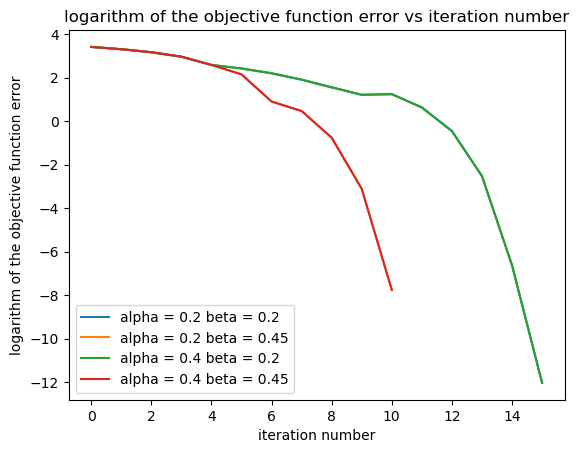
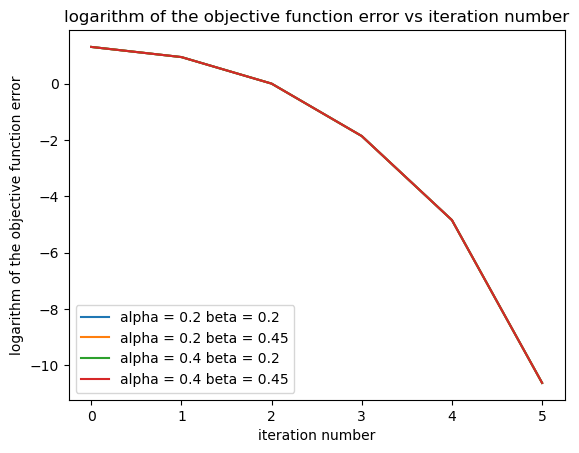
working on 9.31

diff --git a/part_1/hw7/ex_9_31_a.py b/part_1/hw7/ex_9_31_a.py
@@ -25,9 +25,6 @@ x_start = np.zeros([n, 1])
 
 x = x_start
 
-
-iter_num = 0
-
 max_iters = 1000
 
 max_line_search_iters = 1000
@@ -39,17 +36,26 @@ beta = 0.4
 print('x_start = ', x_start)
 print('x_start.shape = ', x_start.shape)
 
+N = 3
 
-# t = h.backtrack(x, a, h.gradf(x, a), alpha, beta)
-# print('t after backtrack = ', t)
+iter_num = 0
 
 # the Newton's method implementation
+
 while True:
     
     print('iteration number ', iter_num)
+    
     grad = h.gradf(x, a) #  gradient of f
-    hess = h.hessf(x, a) #  hessian of f
-    ihess = np.linalg. inv(hess) #  inverse hessian of f
+    
+    """
+    We need to evaluate and factor the Hessian once every N steps; for the
+    other steps, we compute the search direction using back and forward substitution
+    """        
+    if iter_num // N == 0:
+        hess = h.hessf(x, a) #  hessian of f
+        ihess = np.linalg. inv(hess) #  inverse hessian of f
+
     dx = - ihess @ grad #  Newton step
     lam_sq = grad.T @ (ihess @ grad) # Newton decrement
 
@@ -76,7 +82,6 @@ while True:
     if iter_num >= max_iters:
         print("Newton's method: max_iters number exeeded")
         break
-        
     
 def newton_method(alpha, beta):
     
@@ -89,22 +94,28 @@ def newton_method(alpha, beta):
         
         print('iteration number ', iter_num)
         obj_func_arr.append(f(x, a))
+        
         grad = h.gradf(x, a) #  gradient of f
-        hess = h.hessf(x, a) #  hessian of f
-        ihess = np.linalg. inv(hess) #  inverse hessian of f
+        
+        """
+        We need to evaluate and factor the Hessian once every N steps; for the
+        other steps, we compute the search direction using back and forward substitution
+        """        
+        if iter_num // N == 0:
+            hess = h.hessf(x, a) #  hessian of f
+            ihess = np.linalg. inv(hess) #  inverse hessian of f
+    
         dx = - ihess @ grad #  Newton step
         lam_sq = grad.T @ (ihess @ grad) # Newton decrement
     
         print('lam_sq = %e' % lam_sq)
-        #  if lam_sq / 2 <= nu_min:
         if np.sqrt(lam_sq / 2) <= nu_min:
             print("Newton's method: tolerance achieved, exiting...")
             print('iteration number ', iter_num)
             #  print('a = ', a)
-            opt_val = f(x, a)
-            print('optimal value = %e' % opt_val)
+            print('optimal value = %e' % f(x, a))
             print('optimal x = ', x)
-            return np.array(obj_func_arr) - opt_val, step_arr            
+            return np.array(obj_func_arr) - f(x, a), step_arr
             break
         #  Backtracking line search
     
@@ -120,7 +131,6 @@ def newton_method(alpha, beta):
         iter_num += 1
         if iter_num >= max_iters:
             print("Newton's method: max_iters number exeeded")
-            return None, None
             break
         
 # plot the graphs        
@@ -145,7 +155,7 @@ plt.xlabel('iteration number')
 plt.legend()
 plt.show()
 
-plt.savefig('9_30_b_obj_func.png', bbox_inches='tight')
+plt.savefig('9_31_a_obj_func.png', bbox_inches='tight')
 
 
 plt.figure()
@@ -165,4 +175,7 @@ plt.xlabel('iteration number')
 plt.legend()
 plt.show()
 
-plt.savefig('9_30_b_step.png', bbox_inches='tight')
+plt.savefig('9_31_a_step.png', bbox_inches='tight')
+    
+        
+    

diff --git a/part_1/hw7/ex_9_31_b.py b/part_1/hw7/ex_9_31_b.py
@@ -5,7 +5,6 @@ import ex_9_30_test_hessian as h
 import matplotlib.pyplot as plt
 plt.close('all')
 
-
 f = h.f
 
 np.random.seed(3)
@@ -40,16 +39,15 @@ print('x_start = ', x_start)
 print('x_start.shape = ', x_start.shape)
 
 
-# t = h.backtrack(x, a, h.gradf(x, a), alpha, beta)
-# print('t after backtrack = ', t)
-
 # the Newton's method implementation
 while True:
     
     print('iteration number ', iter_num)
     grad = h.gradf(x, a) #  gradient of f
     hess = h.hessf(x, a) #  hessian of f
-    ihess = np.linalg. inv(hess) #  inverse hessian of f
+    # Diagonal approximation. We replace the Hessian by its diagonal
+    ihess = np.diag(1 / np.diagonal(hess))
+    # ihess = np.linalg. inv(hess) #  inverse hessian of f
     dx = - ihess @ grad #  Newton step
     lam_sq = grad.T @ (ihess @ grad) # Newton decrement
 
@@ -76,7 +74,6 @@ while True:
     if iter_num >= max_iters:
         print("Newton's method: max_iters number exeeded")
         break
-        
     
 def newton_method(alpha, beta):
     
@@ -84,6 +81,7 @@ def newton_method(alpha, beta):
     step_arr = []
     iter_num = 0
     x = x_start
+
     
     while True:
         
@@ -91,20 +89,20 @@ def newton_method(alpha, beta):
         obj_func_arr.append(f(x, a))
         grad = h.gradf(x, a) #  gradient of f
         hess = h.hessf(x, a) #  hessian of f
-        ihess = np.linalg. inv(hess) #  inverse hessian of f
+        # Diagonal approximation. We replace the Hessian by its diagonal
+        ihess = np.diag(1 / np.diagonal(hess))
+
         dx = - ihess @ grad #  Newton step
         lam_sq = grad.T @ (ihess @ grad) # Newton decrement
     
         print('lam_sq = %e' % lam_sq)
-        #  if lam_sq / 2 <= nu_min:
         if np.sqrt(lam_sq / 2) <= nu_min:
             print("Newton's method: tolerance achieved, exiting...")
             print('iteration number ', iter_num)
             #  print('a = ', a)
-            opt_val = f(x, a)
-            print('optimal value = %e' % opt_val)
+            print('optimal value = %e' % f(x, a))
             print('optimal x = ', x)
-            return np.array(obj_func_arr) - opt_val, step_arr            
+            return np.array(obj_func_arr) - f(x, a), step_arr
             break
         #  Backtracking line search
     
@@ -120,9 +118,8 @@ def newton_method(alpha, beta):
         iter_num += 1
         if iter_num >= max_iters:
             print("Newton's method: max_iters number exeeded")
-            return None, None
             break
-        
+
 # plot the graphs        
 alpha_arr = [0.2, 0.4]
 
@@ -145,7 +142,7 @@ plt.xlabel('iteration number')
 plt.legend()
 plt.show()
 
-plt.savefig('9_30_b_obj_func.png', bbox_inches='tight')
+plt.savefig('9_31_b_obj_func.png', bbox_inches='tight')
 
 
 plt.figure()
@@ -165,4 +162,11 @@ plt.xlabel('iteration number')
 plt.legend()
 plt.show()
 
-plt.savefig('9_30_b_step.png', bbox_inches='tight')
+plt.savefig('9_31_b_step.png', bbox_inches='tight')
+    
+        
+    
+
+
+              
+              
